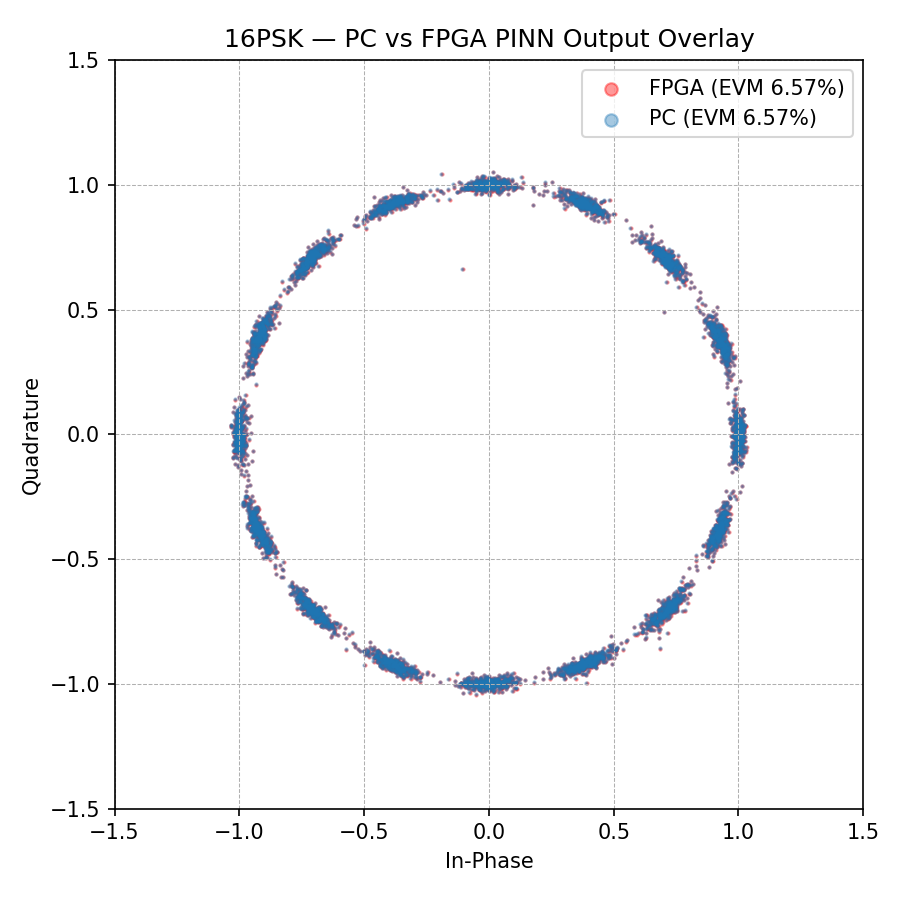
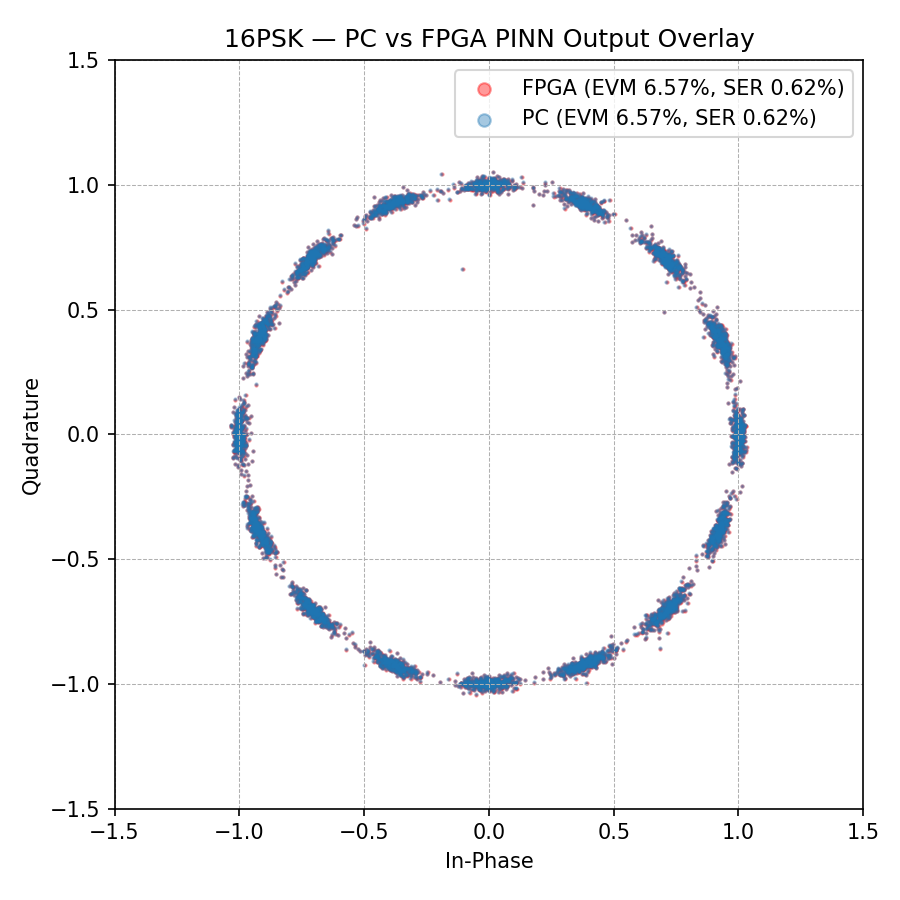
fix: update graphs/scripts with ser

Changed region(s): [[0.4978, 0.0622, 0.9022, 0.1556]]

diff --git a/pc2fpga_eval/visualize_pc_vs_fpga.py b/pc2fpga_eval/visualize_pc_vs_fpga.py
@@ -107,8 +107,8 @@ def main():
 
     # --- Plot overlay ---
     fig, ax = plt.subplots(figsize=(6, 6))
-    ax.scatter(fpga_aligned.real, fpga_aligned.imag, s=1, alpha=0.4, color="red", label=f"FPGA (EVM {fpga_evm:.2f}%)")
-    ax.scatter(pc_aligned.real, pc_aligned.imag, s=1, alpha=0.4, color="tab:blue", label=f"PC (EVM {pc_evm:.2f}%)")
+    ax.scatter(fpga_aligned.real, fpga_aligned.imag, s=1, alpha=0.4, color="red", label=f"FPGA (EVM {fpga_evm:.2f}%, SER {fpga_ser:.2f}%)")
+    ax.scatter(pc_aligned.real, pc_aligned.imag, s=1, alpha=0.4, color="tab:blue", label=f"PC (EVM {pc_evm:.2f}%, SER {pc_ser:.2f}%)")
     ax.set_title(f"{args.sig_type.upper()} — PC vs FPGA PINN Output Overlay")
     ax.set_xlabel("In-Phase")
     ax.set_ylabel("Quadrature")
